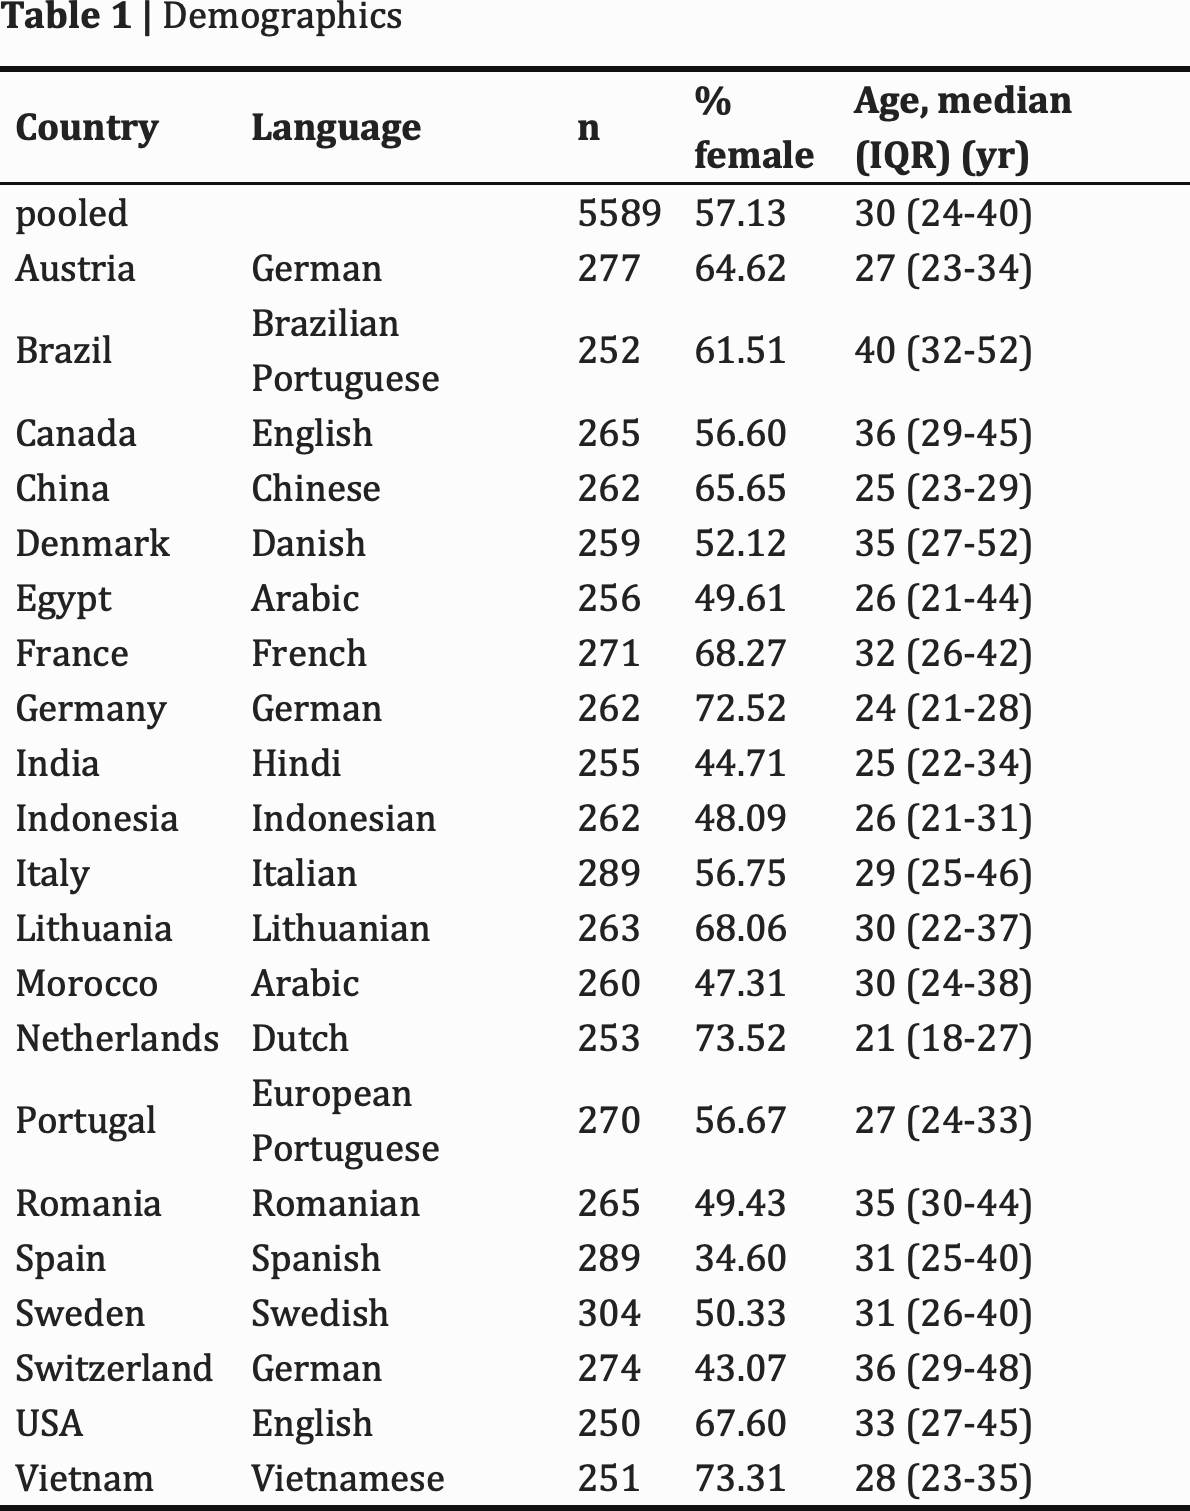
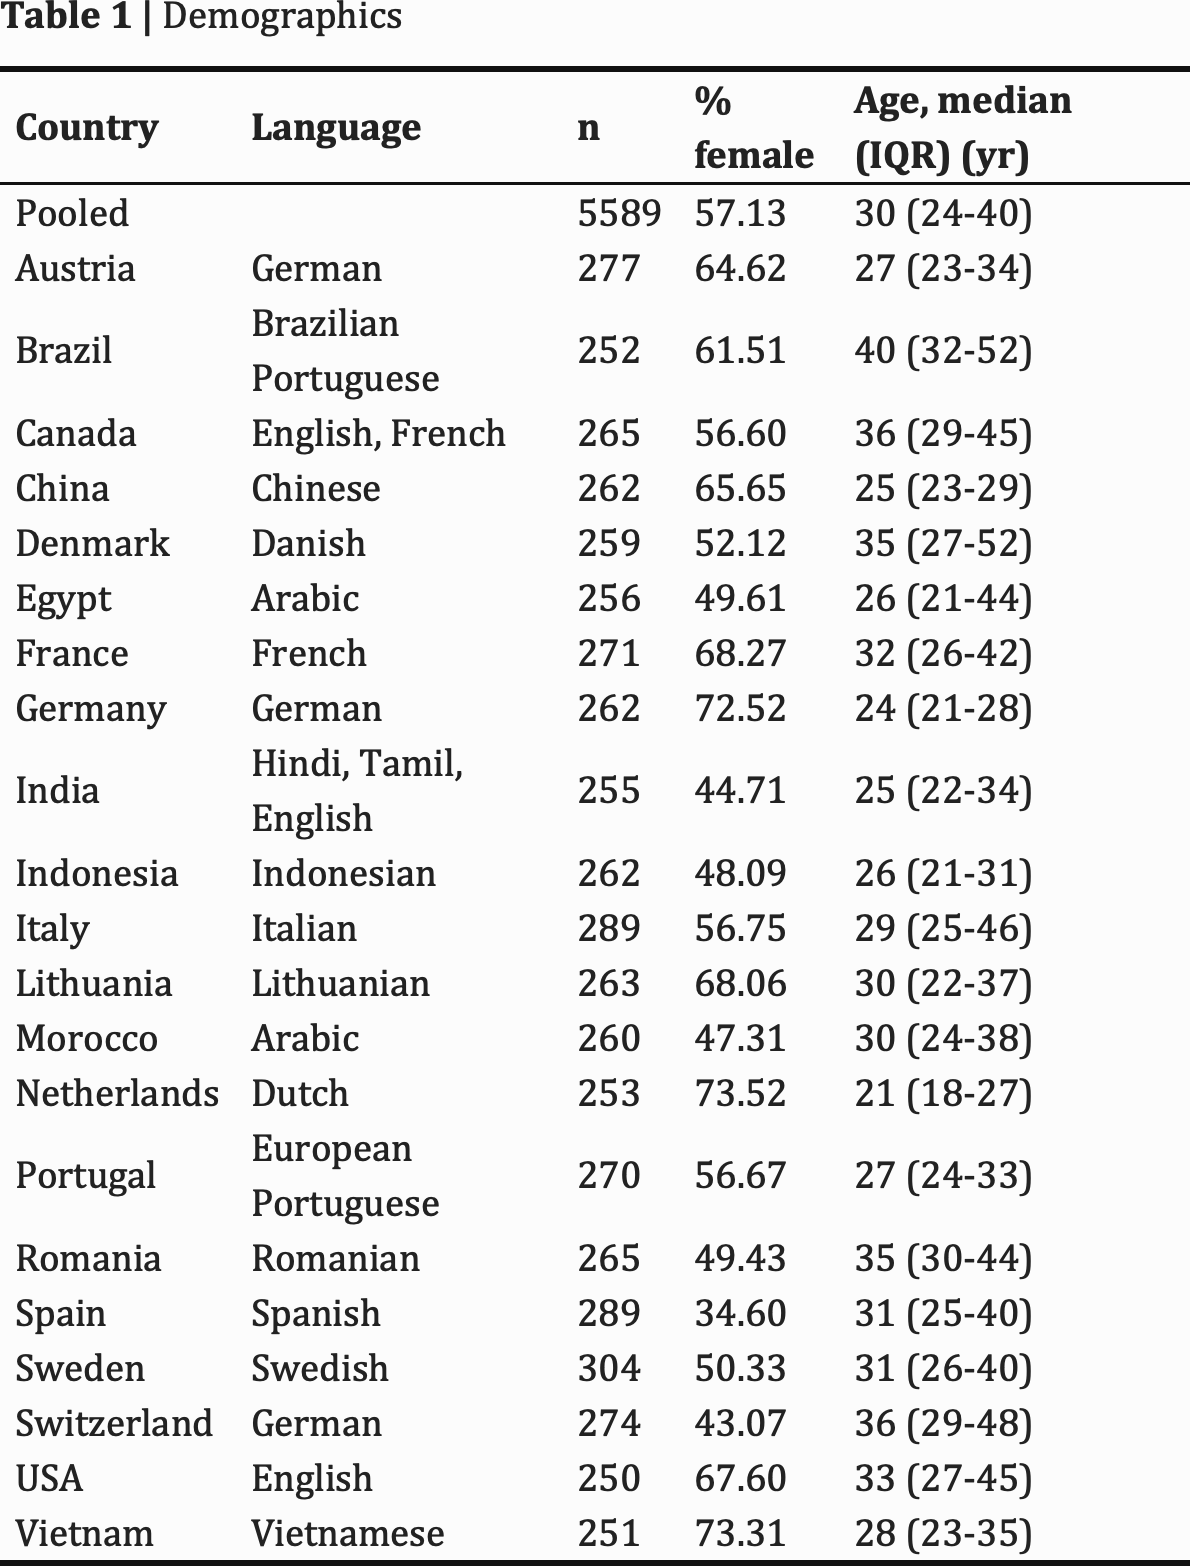
up

Changed region(s): [[0.0, 0.1555, 1.0, 1.0], [0.0, 0.0, 1.0, 0.1866]]

diff --git a/README.md b/README.md
@@ -7,17 +7,12 @@
 
 ### TO DO:
 
-#### Check Demographics: 
-- Age
-- Sex
-- Income
-- Education
+- Check Numbers of different exclusion criterions
 
-#### Change Table
-- Language
+- Run Exploratory analysis
 
-#### Supplementary Results
+- Supplementary Results
 
-#### Report html
-Write replication rate automatically (127/140 successful replications)
+- Report htmt\
+    Write replication rate automatically (127/140 successful replications)
 
